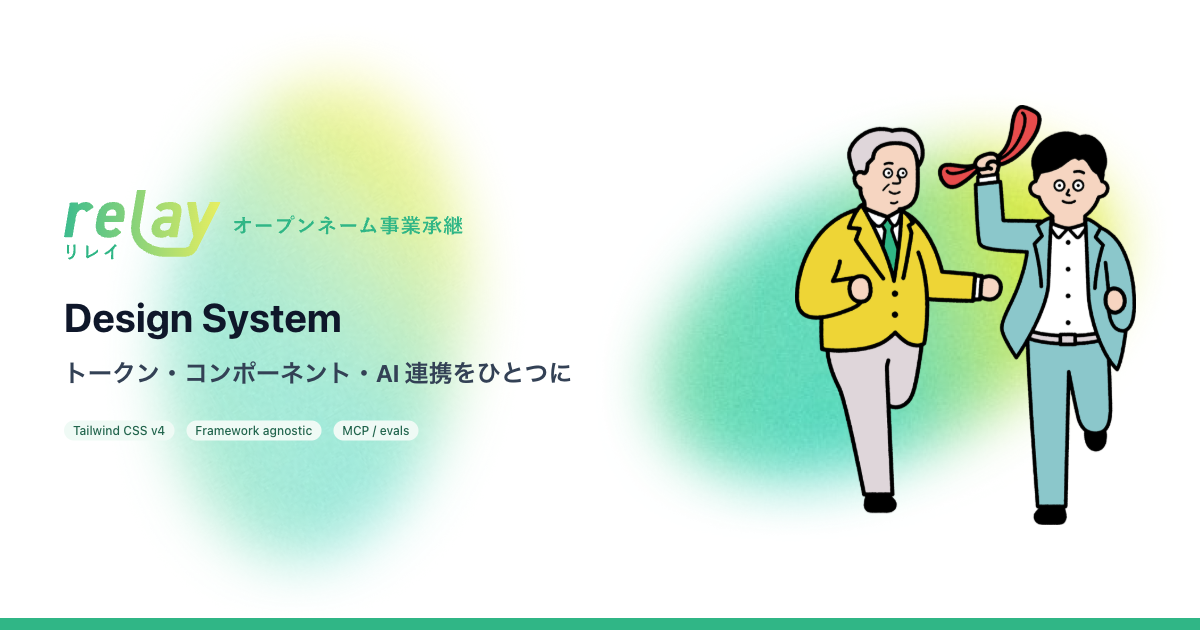
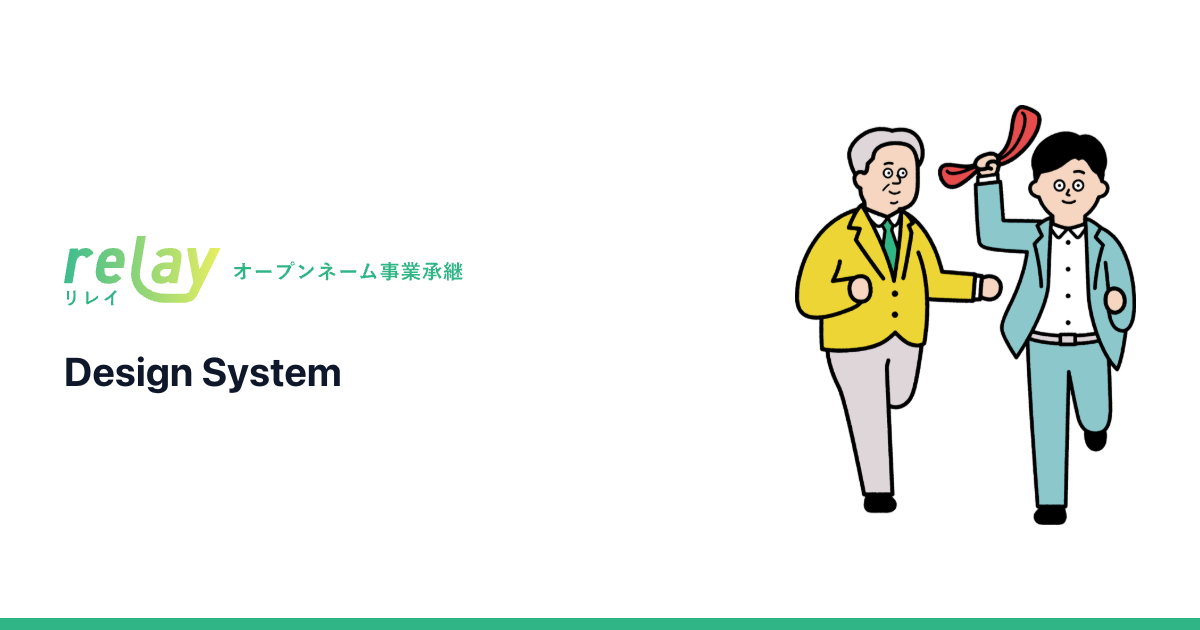
refactor(catalog): OGP 画像をシンプル化（ロゴ + Design System + メインイラスト）
背景ブラー・タグライン・バッジを削除し、左にロゴと Design System、
右にブランドイラストの構成に変更。

Changed region(s): [[0.0308, 0.0905, 0.4933, 0.9048], [0.5242, 0.181, 0.9558, 0.8143]]

diff --git a/scripts/ogp-card.html b/scripts/ogp-card.html
@@ -29,41 +29,19 @@
       padding: 0 calc(var(--spacing) * 16); /* 64px */
       box-sizing: border-box;
     }
-    .ogp-bg { position: absolute; inset: 0; pointer-events: none; }
-    .ogp-bg img { position: absolute; height: 100%; }
-    .ogp-bg .left  { left: 0; top: 0; }
-    .ogp-bg .right { right: 0; bottom: 0; }
-    .ogp-lead  { position: relative; display: flex; flex-direction: column; gap: calc(var(--spacing) * 8); }
-    .ogp-logo  { width: 400px; }
-    .ogp-badges { display: flex; gap: calc(var(--spacing) * 3); }
-    .ogp-hero  { position: relative; height: 420px; }
-    .ogp-bar   { position: absolute; bottom: 0; left: 0; width: 100%; height: calc(var(--spacing) * 3); }
+    .ogp-lead { display: flex; flex-direction: column; gap: calc(var(--spacing) * 10); }
+    .ogp-logo { width: 400px; }
+    .ogp-hero { height: 420px; }
+    .ogp-bar  { position: absolute; bottom: 0; left: 0; width: 100%; height: calc(var(--spacing) * 3); }
   </style>
 </head>
 <body class="bg-white font-sans antialiased">
   <div class="ogp">
-    <div class="ogp-bg">
-      <img class="left" src="../examples/assets/bg-blur-left.png" alt="" />
-      <img class="right" src="../examples/assets/bg-blur-right.png" alt="" />
-    </div>
-
     <div class="ogp-lead">
       <img class="ogp-logo" src="../examples/assets/relay_logo.svg" alt="relay リレイ" />
-      <div>
-        <div class="typo-3xlarge text-fg-high">Design System</div>
-        <p class="typo-xlarge text-fg-middle" style="margin-top: calc(var(--spacing) * 4)">
-          トークン・コンポーネント・AI 連携をひとつに
-        </p>
-      </div>
-      <div class="ogp-badges">
-        <span class="badge badge-soft-primary">Tailwind CSS v4</span>
-        <span class="badge badge-soft-primary">Framework agnostic</span>
-        <span class="badge badge-soft-primary">MCP / evals</span>
-      </div>
+      <div class="typo-3xlarge text-fg-high">Design System</div>
     </div>
-
     <img class="ogp-hero" src="../examples/assets/relay_main.png" alt="" />
-
     <div class="ogp-bar bg-primary-500"></div>
   </div>
 </body>
